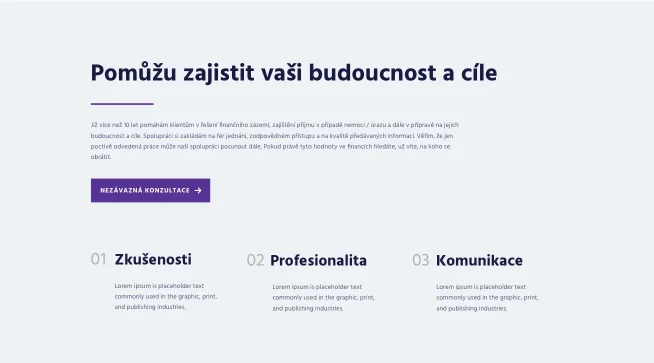
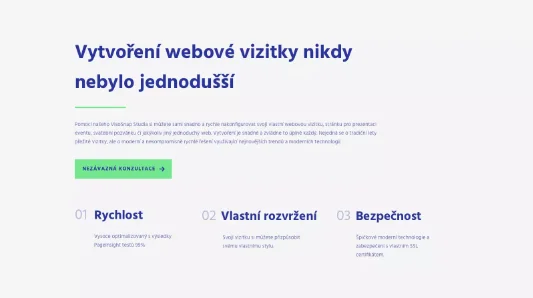
update default states - new design

diff --git a/app/lib/useState/useReferenceState.ts b/app/lib/useState/useReferenceState.ts
@@ -52,24 +52,24 @@ export const useReferenceState = (): ReferenceState => {
   // Boxes
   const [boxes, setBoxes] = useState<Box[]>([
     {
-      title: 'Manželé V. | Brno',
+      title: 'Patrik Indra | Finanční specialista',
       description:
-        'S Patrikem jsme se setkali kvůli pojištění nemovitosti. V jednoduchosti nám vysvětlil rozdíly mezi pojišťovnami a vybral pro nás nejlepší variantu. Od té doby s ním konzultujeme životní pojištění a veškeré investice. Jeho celkový přehled a upřímné jednání jsme ve financích hledali.',
+        'S webovou vizitkou od VisioSnap jsem velmi spokojen. Na širokém trhu jsem nenašel žádnou podobnou službu, která by byla takhle jednoduchá, rychlá a levná. Zcela mě tohle řešení vyhouje pro můj firemní profil, respektive webovou vizitku.',
     },
     {
-      title: 'Libor N. | Uherský Brod',
+      title: 'Kreativní Duo | marketing a sociální sítě',
       description:
-        'S Patrikem se známe už řadu let a naši spolupráci si nemohu vynachválit. Vím, že potřeby klienta jsou pro něj na prvním místě. V oblasti financí vždy dokáže věci srozumitelně vysvětlit a následně poradit s výběrem ideálního řešení. K mé velké spokojenosti spolu řešíme také otázky ohledně povinného ručení, životního pojištění, investic i penze.',
+        'Jakmile jsme se dozvěděli, že VisioSnap vyšli na trh se svým řešením webových vizitek, ani vteřinu jsme neváhaly a okamžitě za jejich pomoci vytvořily webovou stránku pro prezentaci našich kreaktivních služeb.',
     },
     {
-      title: 'Libor O. | Uherský Brod',
+      title: 'Kavárna La Dolce Vita',
       description:
-        'S Patrikem se známe od malička a řeším s ním všechny své pojištění i investice. O všechno se mi skvěle stará, dokázal pro mě najít nejvhodnější finanční nástroje a vždy se na něj můžu obrátit. Mohu jedině doporučit.',
+        'Jsem nadšený z naší nové webové vizitky od VisioSnap. Proces byl neuvěřitelně rychlý a jednoduchý, a výsledná stránka perfektně reflektuje atmosféru naší kavárny. Doporučujeme všem podnikům, které hledají efektivní a cenově dostupné řešení pro svou online prezentaci.',
     },
     {
-      title: 'Manželé J. | Uherský Brod',
+      title: 'Svatební agentura',
       description:
-        'Před několika lety jsme se potkali přes doporučení s panem Indrou kvůli hypotéce. Od první schůzky byla jeho práce profesionální a efektivní. Během 3 týdnů bylo vše vyřešeno a my mohli čerpat peníze. Navíc připravil finanční plán, díky kterému můžeme hypotéku splatit dříve a tím pádem ušetřit nemalé peníze. Spolupráci s panem Indrou jen doporučujeme.',
+        'VisioSnap nám vytvořili nádhernou webovou vizitku, která elegantně představuje naše svatební služby. Celý proces byl hladký a rychlý, a výsledná stránka je přesně to, co jsme hledali. Moc děkujeme za skvělou spolupráci!',
     },
   ])
 

diff --git a/app/lib/useState/useAboutState.ts b/app/lib/useState/useAboutState.ts
@@ -58,10 +58,10 @@ export const useAboutState = (): AboutState => {
 
   // Content
   const [aboutContentTitle, setAboutContentTitle] = useState<string>(
-    'Pomůžu zajistit vaši budoucnost a cíle',
+    'Vytvoření webové vizitky nikdy nebylo jednodušší',
   )
   const [aboutContentDescription, setAboutContentDescription] = useState<string>(
-    'Již více než 10 let pomáhám klientům v řešení finančního zázemí, zajištění příjmu v případě nemoci / úrazu a dále v přípravě na jejich budoucnost a cíle. Spolupráci si zakládám na fér jednání, zodpovědném přístupu a na kvalitě předávaných informací. Věřím, že jen poctivě odvedená práce může naši spolupráci posunout dále. Pokud právě tyto hodnoty ve financích hledáte, už víte, na koho se obrátit.',
+    'Pomocí našeho VisoSnap Studia si můžete sami snadno a rychle nakonfigurovat svoji vlastní webovou vizitku, stránku pro prezentaci eventu, svatební pozvánku či jakýkoliv jiný jednoduchý web. Vytvoření je snadné a zvládne to úplně každý. Nejedná se o tradiční lety přežité vizitky, ale o moderní a nekompromisně rychlé řešení využívající nejnovějších trendů a moderních technologií.',
   )
   const [aboutContentButtonTitle, setAboutContentButtonTitle] =
     useState<string>('Nezávazná konzultace')
@@ -72,19 +72,16 @@ export const useAboutState = (): AboutState => {
   // Boxes
   const [boxes, setBoxes] = useState<Box[]>([
     {
-      title: 'Zkušenosti',
-      description:
-        'Lorem ipsum is placeholder text commonly used in the graphic, print, and publishing industries.',
+      title: 'Rychlost',
+      description: 'Vysoce optimalizovaný s výsledky PageInsight testů 99%',
     },
     {
-      title: 'Profesionalita',
-      description:
-        'Lorem ipsum is placeholder text commonly used in the graphic, print, and publishing industries.',
+      title: 'Vlastní rozvržení',
+      description: 'Svoji vizitku si můžete přizpůsobit svému vlastnímu stylu.',
     },
     {
-      title: 'Komunikace',
-      description:
-        'Lorem ipsum is placeholder text commonly used in the graphic, print, and publishing industries.',
+      title: 'Bezpečnost',
+      description: 'Špičkové moderní technologie a zabezpečení s vlastním SSL certifikátem.',
     },
   ])
 

diff --git a/app/lib/useState/useHeroState.ts b/app/lib/useState/useHeroState.ts
@@ -69,10 +69,12 @@ export const useHeroState = (): HeroState => {
 
   // Content
   const [heroContentTitle, setHeroContentTitle] = useState<string>(
-    'Ve financích se na mě můžete spolehnout',
+    'Pomůžu vám vytvořit vysněnou vizitku',
   )
-  const [heroContentSubtitle, setHeroContentSubtitle] = useState<string>('Finanční specialista')
-  const [heroContentLargeTitle, setHeroContentLargeTitle] = useState<string>('Finance')
+  const [heroContentSubtitle, setHeroContentSubtitle] = useState<string>(
+    'Specialista na webové vizitky',
+  )
+  const [heroContentLargeTitle, setHeroContentLargeTitle] = useState<string>('Webovky')
   const [heroContentButtonPrimaryText, setHeroContentButtonPrimaryText] =
     useState<string>('Nezávazná konzultace')
   const [heroContentButtonPrimaryLink, setHeroContentButtonPrimaryLink] =
@@ -88,17 +90,17 @@ export const useHeroState = (): HeroState => {
 
   // Image
   const [imageMainUrl, setImageMainUrl] = useState<string | undefined>(
-    'https://profile-next-core.s3.eu-north-1.amazonaws.com/next-s3-uploads/default/profileImage.webp',
+    'https://profile-next-core.s3.eu-north-1.amazonaws.com/next-s3-uploads/default/visiosnap_hero_image_01.webp',
   )
   const [imageMainAlternativeUrl, setImageMainAlternativeUrl] = useState<string | undefined>(
-    'https://profile-next-core.s3.eu-north-1.amazonaws.com/next-s3-uploads/default/image_without-bg.webp',
+    'https://profile-next-core.s3.eu-north-1.amazonaws.com/next-s3-uploads/default/visiosnap_hero_image_01.webp',
   )
   const [imageMainHeight, setImageMainHeight] = useState<number | undefined>(undefined)
   const [imageMainWidth, setImageMainWidth] = useState<number | undefined>(undefined)
 
   // Image - background
   const [imageBackgroundUrl, setImageBackgroundUrl] = useState<string | undefined>(
-    'https://profile-next-core.s3.eu-north-1.amazonaws.com/next-s3-uploads/default/hero_background_image.webp',
+    'https://profile-next-core.s3.eu-north-1.amazonaws.com/next-s3-uploads/default/visiosnap_hero_background_01.webp',
   )
   const [imageBackgroundHeight, setImageBackgroundHeight] = useState<number | undefined>(undefined)
   const [imageBackgroundWidth, setImageBackgroundWidth] = useState<number | undefined>(undefined)

diff --git a/app/lib/useState/useOtherState.ts b/app/lib/useState/useOtherState.ts
@@ -70,7 +70,7 @@ export const useOtherState = (): OtherState => {
   const [currentBreakpoint, setCurrentBreakpoint] = useState<number>(2)
 
   // Typography
-  const [fontName, setFontName] = useState<string>('Hind')
+  const [fontName, setFontName] = useState<string>('Inter')
   const [fontWeights, setFontWeights] = useState<string>('400;700')
 
   // Global colors
@@ -99,15 +99,15 @@ export const useOtherState = (): OtherState => {
 
   // Meta
   const [metaTitle, setMetaTitle] = useState<string>(
-    'Patrik Indra - Saroli | Finanční specialista a poradce',
+    'Patrik Vaďura | Specialista na webové vizitky',
   )
   const [metaDescription, setMetaDescription] = useState<string>(
-    'Již více než 10 let pomáhám klientům v řešení finančního zázemí, zajištění příjmu v případě nemoci / úrazu a dále v přípravě na jejich budoucnost a cíle.',
+    'Pomůžu vám levně a bez starostí vytvořit profesionální moderní webovou vizitku. Celou vizitku si můžete sami nakonfigurovat - je to snadné!',
   )
 
   // Identity
-  const [siteName, setSiteName] = useState<string>('Patrik Indra')
-  const [siteNameClaim, setSiteNameClaim] = useState<string>('Finanční specialista')
+  const [siteName, setSiteName] = useState<string>('Patrik Vaďura')
+  const [siteNameClaim, setSiteNameClaim] = useState<string>('Specialista na webové vizitky')
   const [logoImage, setLogoImage] = useState<boolean | null>(false)
   const [logoImageUrl, setLogoImageUrl] = useState<string>(
     'https://profile-next-core.s3.eu-north-1.amazonaws.com/next-s3-uploads/default/visiosnap.svg',

diff --git a/app/lib/useState/useServiceState.ts b/app/lib/useState/useServiceState.ts
@@ -71,26 +71,26 @@ export const useServiceState = (): ServiceState => {
   const [serviceBoxIcon, setServiceBoxIcon] = useState<string | undefined>(colors.service.box.icon)
 
   // Content
-  const [servicesContentTitle, setServicesContentTitle] = useState<string>('Nabídka mých služeb')
+  const [servicesContentTitle, setServicesContentTitle] = useState<string>('Co vám můžu nabídnout?')
 
   // Boxes
   const [boxes, setBoxes] = useState<Box[]>([
     {
-      title: 'Úvěry',
-      content: data.services.description,
-      icon: 'streamline:money-bank-institution-money-saving-bank-payment-finance',
+      title: 'Nulové náklady',
+      content: 'Vaši vizitku umístíme na moderní, výkoné a spolehlivé servery Vercel - ZDARMA.',
+      icon: 'material-symbols:exposure-zero',
       iconShow: true,
     },
     {
-      title: 'Investice',
-      content: data.services.description,
-      icon: 'material-symbols:finance-mode-rounded',
+      title: 'SEO optimalizace',
+      content: 'Vše již od počátku plně nastaveno pro vyhledávače.',
+      icon: 'hugeicons:seo',
       iconShow: true,
     },
     {
-      title: 'Pojištění',
-      content: data.services.description,
-      icon: 'material-symbols:ecg-heart-outline-sharp',
+      title: 'Dark Mode',
+      content: 'Tmavý režim, který obohatí vizuální dojem vaší vizitky.',
+      icon: 'material-symbols:dark-mode-outline',
       iconShow: true,
     },
   ])

diff --git a/app/lib/useState/useContactState.ts b/app/lib/useState/useContactState.ts
@@ -59,13 +59,14 @@ export const useContactState = (): ContactState => {
 
   // Content
   const [contactContentTitle, setContactContentTitle] = useState<string>(
-    'Již více než 10 let pomáhám klientům v řešení finančního zázemí.',
+    'Kontaktujte nás a vytvořme společně web dle vašich potřeb',
   )
   const [contactContentSubtitle, setContactContentSubtitle] = useState<string>(
-    'Pojďme začít spolupracovat',
+    'Pojďme vytvořit váš vysněný web',
   )
-  const [contactContentInfoEmail, setContactContentInfoEmail] = useState<string>('indra@saroli.cz')
-  const [contactContentInfoPhone, setContactContentInfoPhone] = useState<string>('+420 123 456 789')
+  const [contactContentInfoEmail, setContactContentInfoEmail] =
+    useState<string>('hello@visiosnap.cz')
+  const [contactContentInfoPhone, setContactContentInfoPhone] = useState<string>('+420 725 007 655')
   const [contactContentInfoAddress, setContactContentInfoAddress] = useState<string>(
     'Stojanova 508, Uh. Hradiště',
   )

diff --git a/app/studio/layout.tsx b/app/studio/layout.tsx
@@ -4,7 +4,10 @@ import data from '@/app/lib/dataCustomizer.json'
 import Script from 'next/script'
 import Providers from '@/app/providers'
 import HeaderCustomizer from '@/app/components/Customizer/HeaderCustomizer'
+import { Inter } from 'next/font/google'
 import '@/app/globals.css'
+
+const customizerFont = Inter({ subsets: ['latin'], weight: ['300', '400', '700', '900'] })
 
 export const metadata: Metadata = {
   metadataBase: new URL(`https://${process.env.VERCEL_PROJECT_PRODUCTION_URL}`),
@@ -61,7 +64,7 @@ export default function RootLayout({
         ''
       )}
       <Providers>
-        <body suppressHydrationWarning>
+        <body className={customizerFont.className} suppressHydrationWarning>
           {data.gtm.status ? (
             <noscript>
               <iframe

diff --git a/app/layout.tsx b/app/layout.tsx
@@ -4,10 +4,10 @@ import data from '@/app/lib/data.json'
 import Script from 'next/script'
 import { DomainProvider } from '@/app/components/Customizer/DNSChecker/DomainContext'
 import Providers from '@/app/providers'
-import { Lato } from 'next/font/google'
+import { Inter } from 'next/font/google'
 import './globals.css'
 
-const customizerFont = Lato({ subsets: ['latin'], weight: ['300', '400', '700', '900'] })
+const customizerFont = Inter({ subsets: ['latin'], weight: ['300', '400', '700'] })
 
 export const metadata: Metadata = {
   metadataBase: new URL(`https://${process.env.VERCEL_PROJECT_PRODUCTION_URL}`),

diff --git a/app/components/Hero/Variant02/index.tsx b/app/components/Hero/Variant02/index.tsx
@@ -54,7 +54,7 @@ export function HeroVariant02({
         // @ts-ignore
         src={imageMainUrl}
         className={getBreakpointStyles(
-          'absolute left-0 object-cover bottom-0 size-[600px] md:size-[850px] lg:size-[920px] md:translate-y-[140px] lg:translate-y-[120px] md:translate-x-[40px] lg:translate-x-[60px] z-1',
+          'absolute left-0 object-contain bottom-0 size-[600px] md:size-[850px] lg:size-[920px] md:translate-y-[140px] lg:translate-y-[60px] md:translate-x-[40px] lg:translate-x-[60px] z-1',
           breakpoint,
           preview,
         )}
